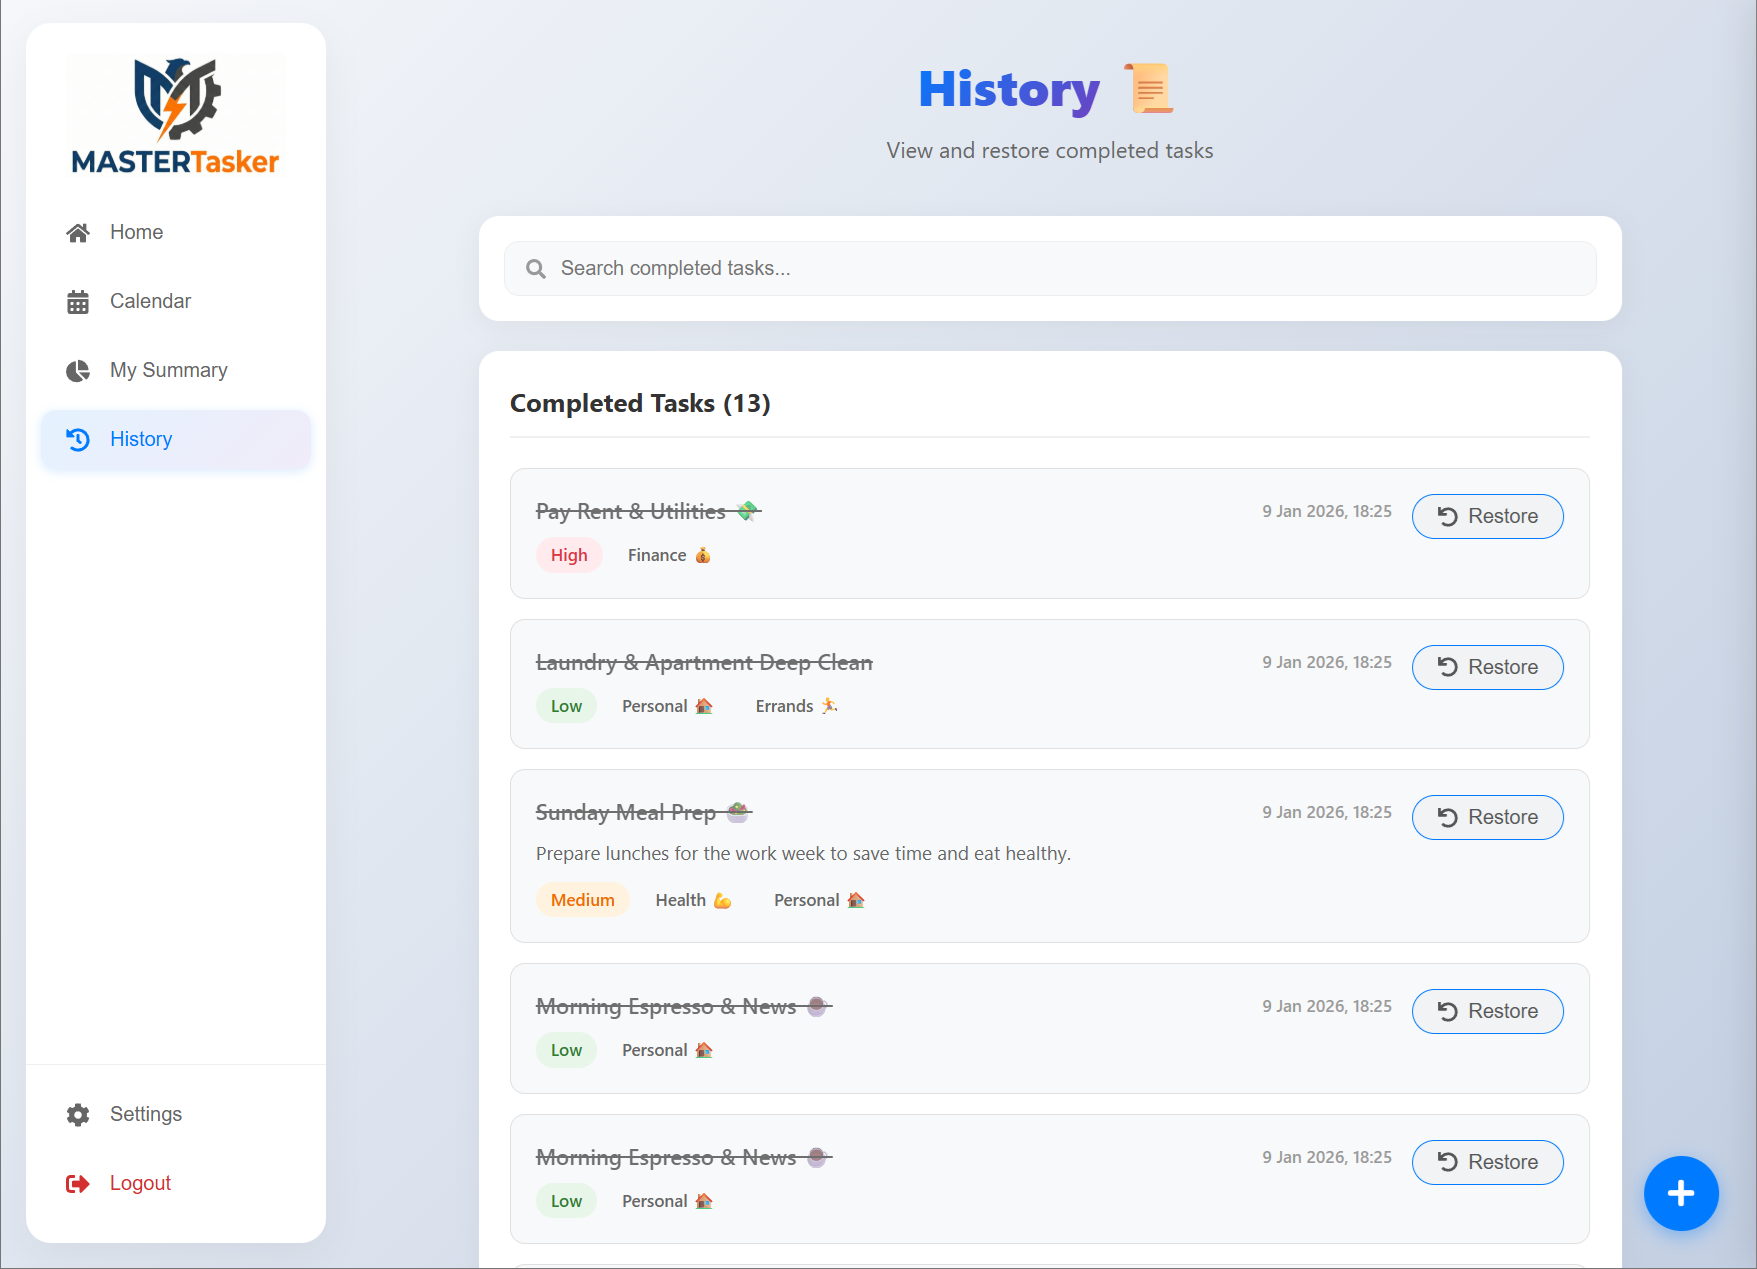
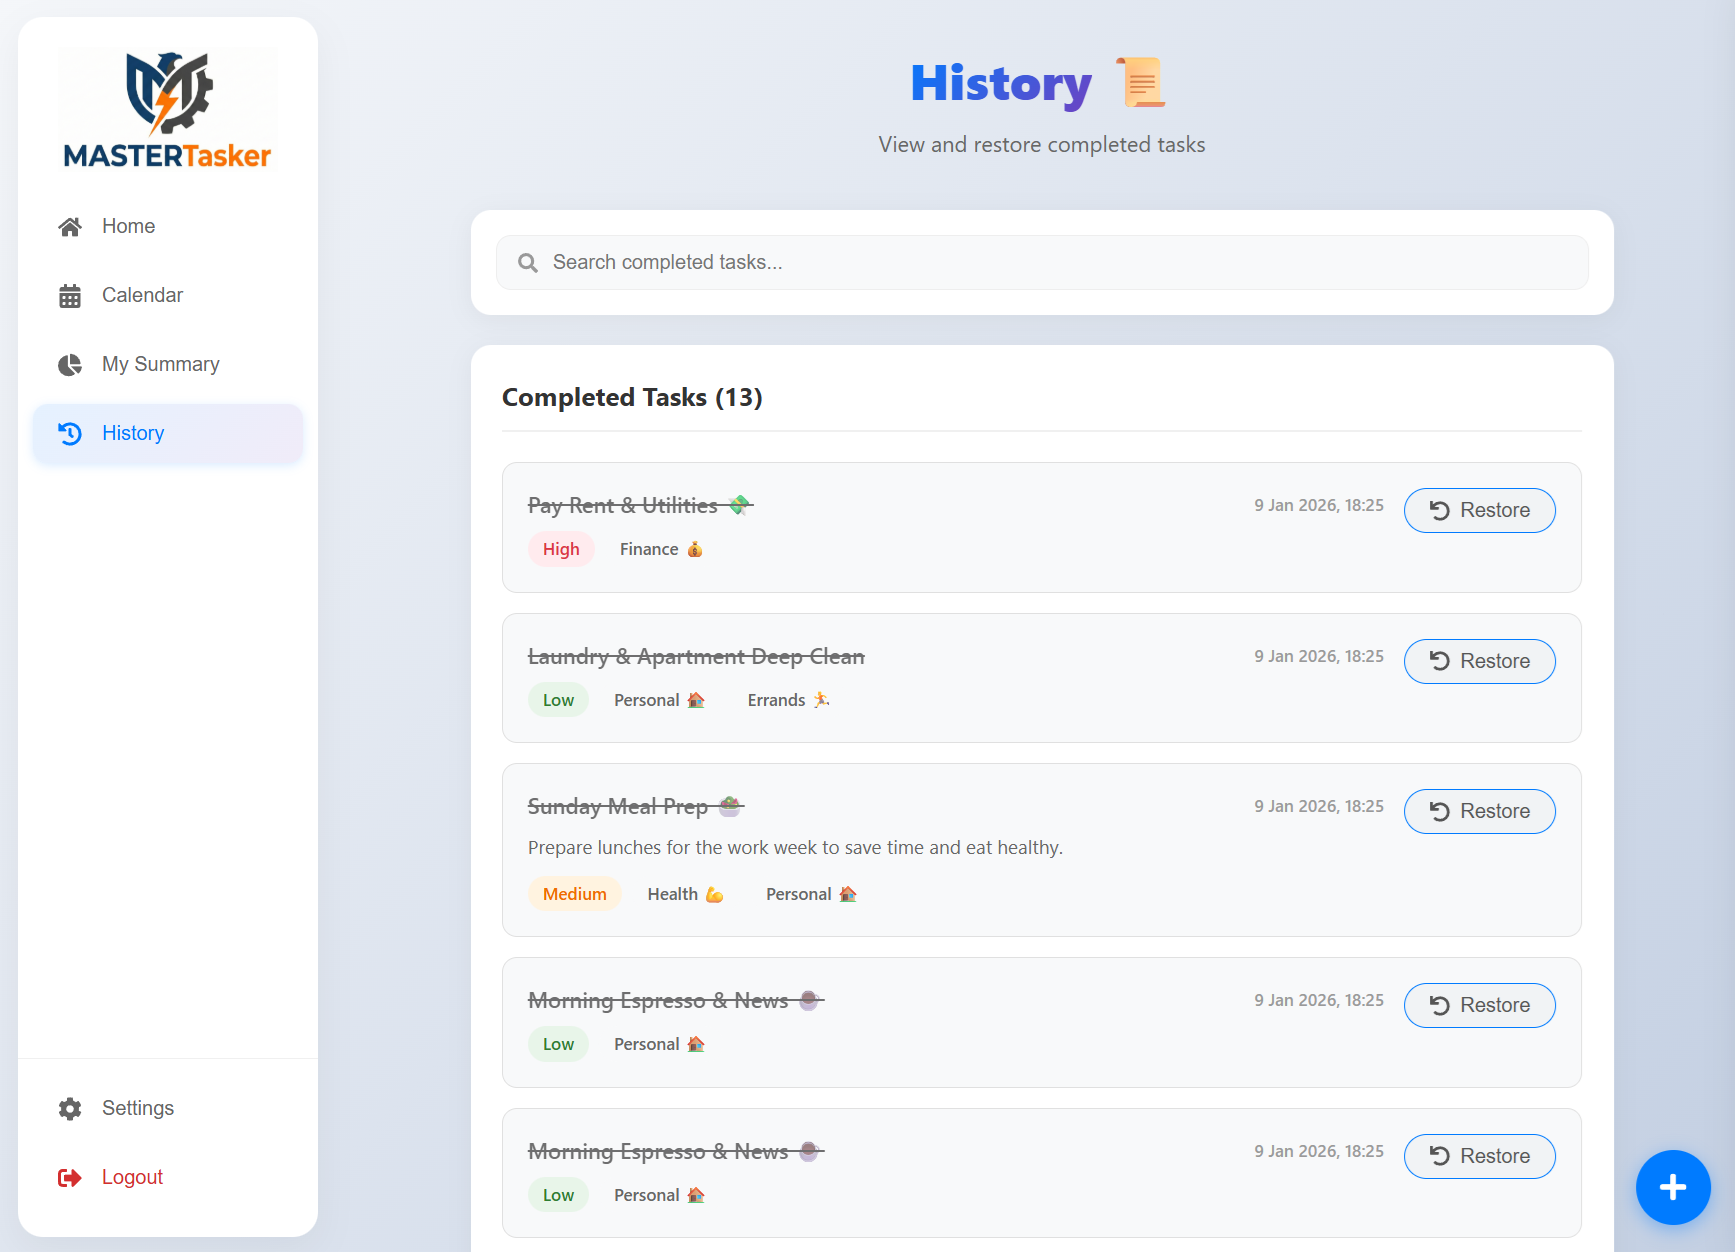
Expands README with detailed features, tech stack, and Docker setup.

diff --git a/README.md b/README.md
@@ -31,6 +31,11 @@ Built with a focus on **Developer Experience (DX)** and **User Experience (UX)**
 
 ---
 
+### Calendar Page
+![Calendar Work View](./screenshot/Calendar.png)
+
+---
+
 ## 🛠 Tech Stack
 
 ### **Frontend (Client)**
@@ -154,7 +159,7 @@ MasterTasker/
 ![Summary Page View](./screenshot/Summary Page.png)
 
 ### History Page
-![Summary Page View](./screenshot/History Page.png)
+![History Page View](./screenshot/History Page.png)
 
 ### Add/Edit Task 
 ![Add/Edit Task View](./screenshot/Add+Edit_Task.png)
